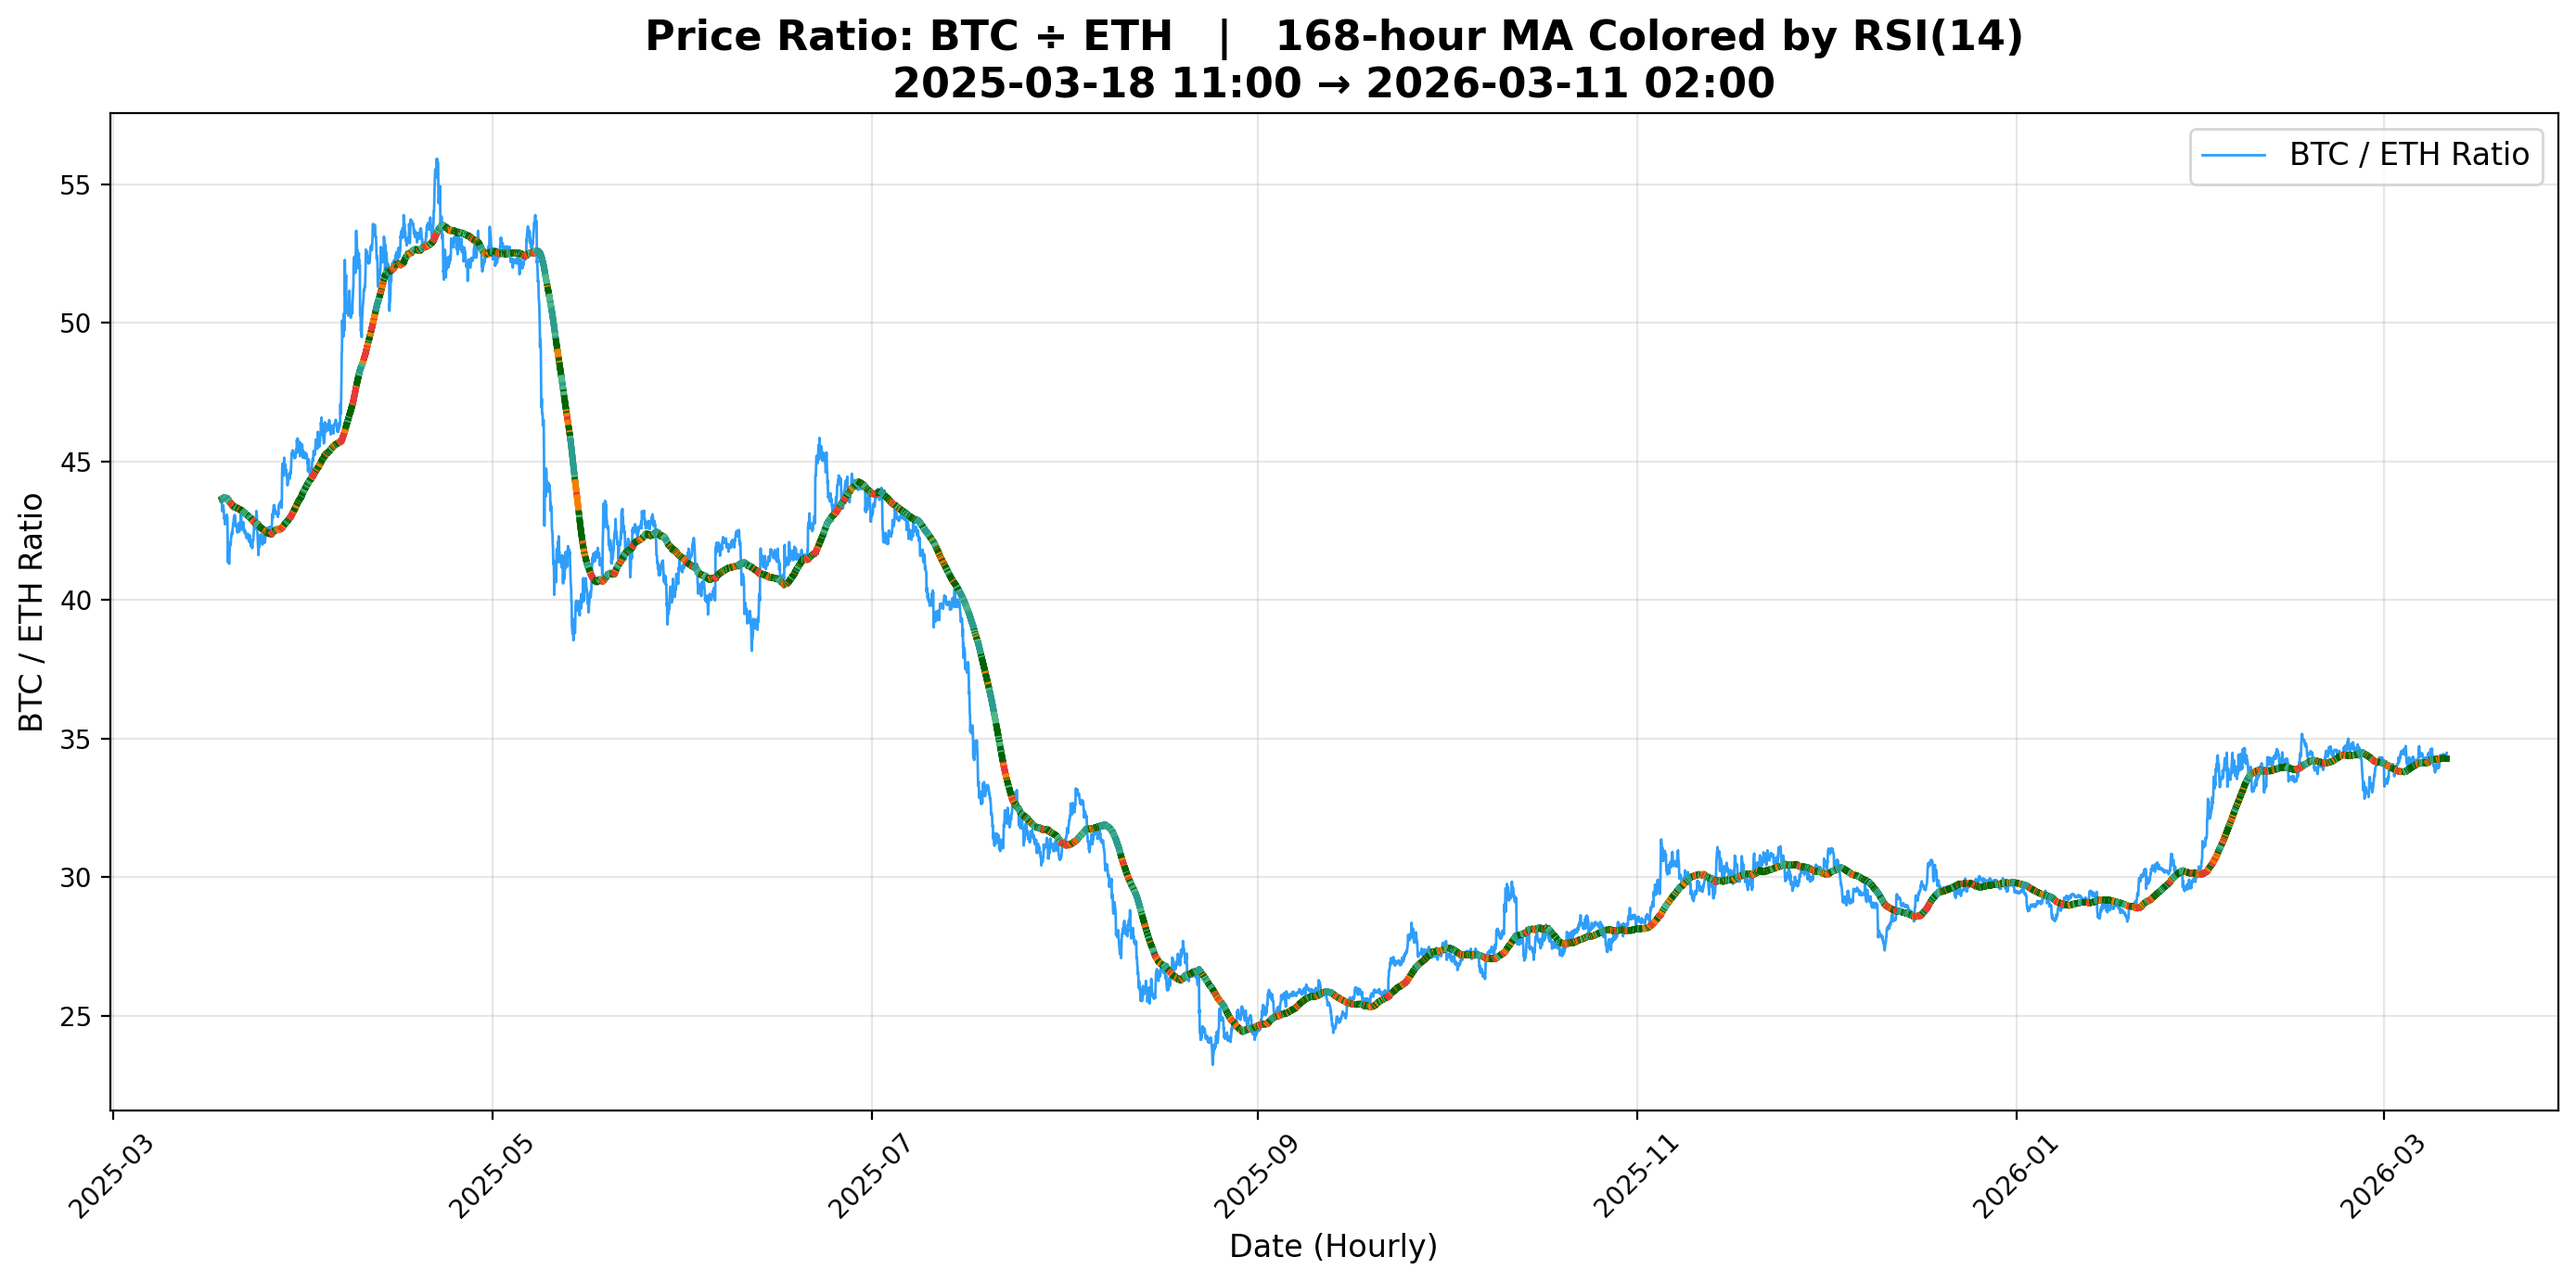
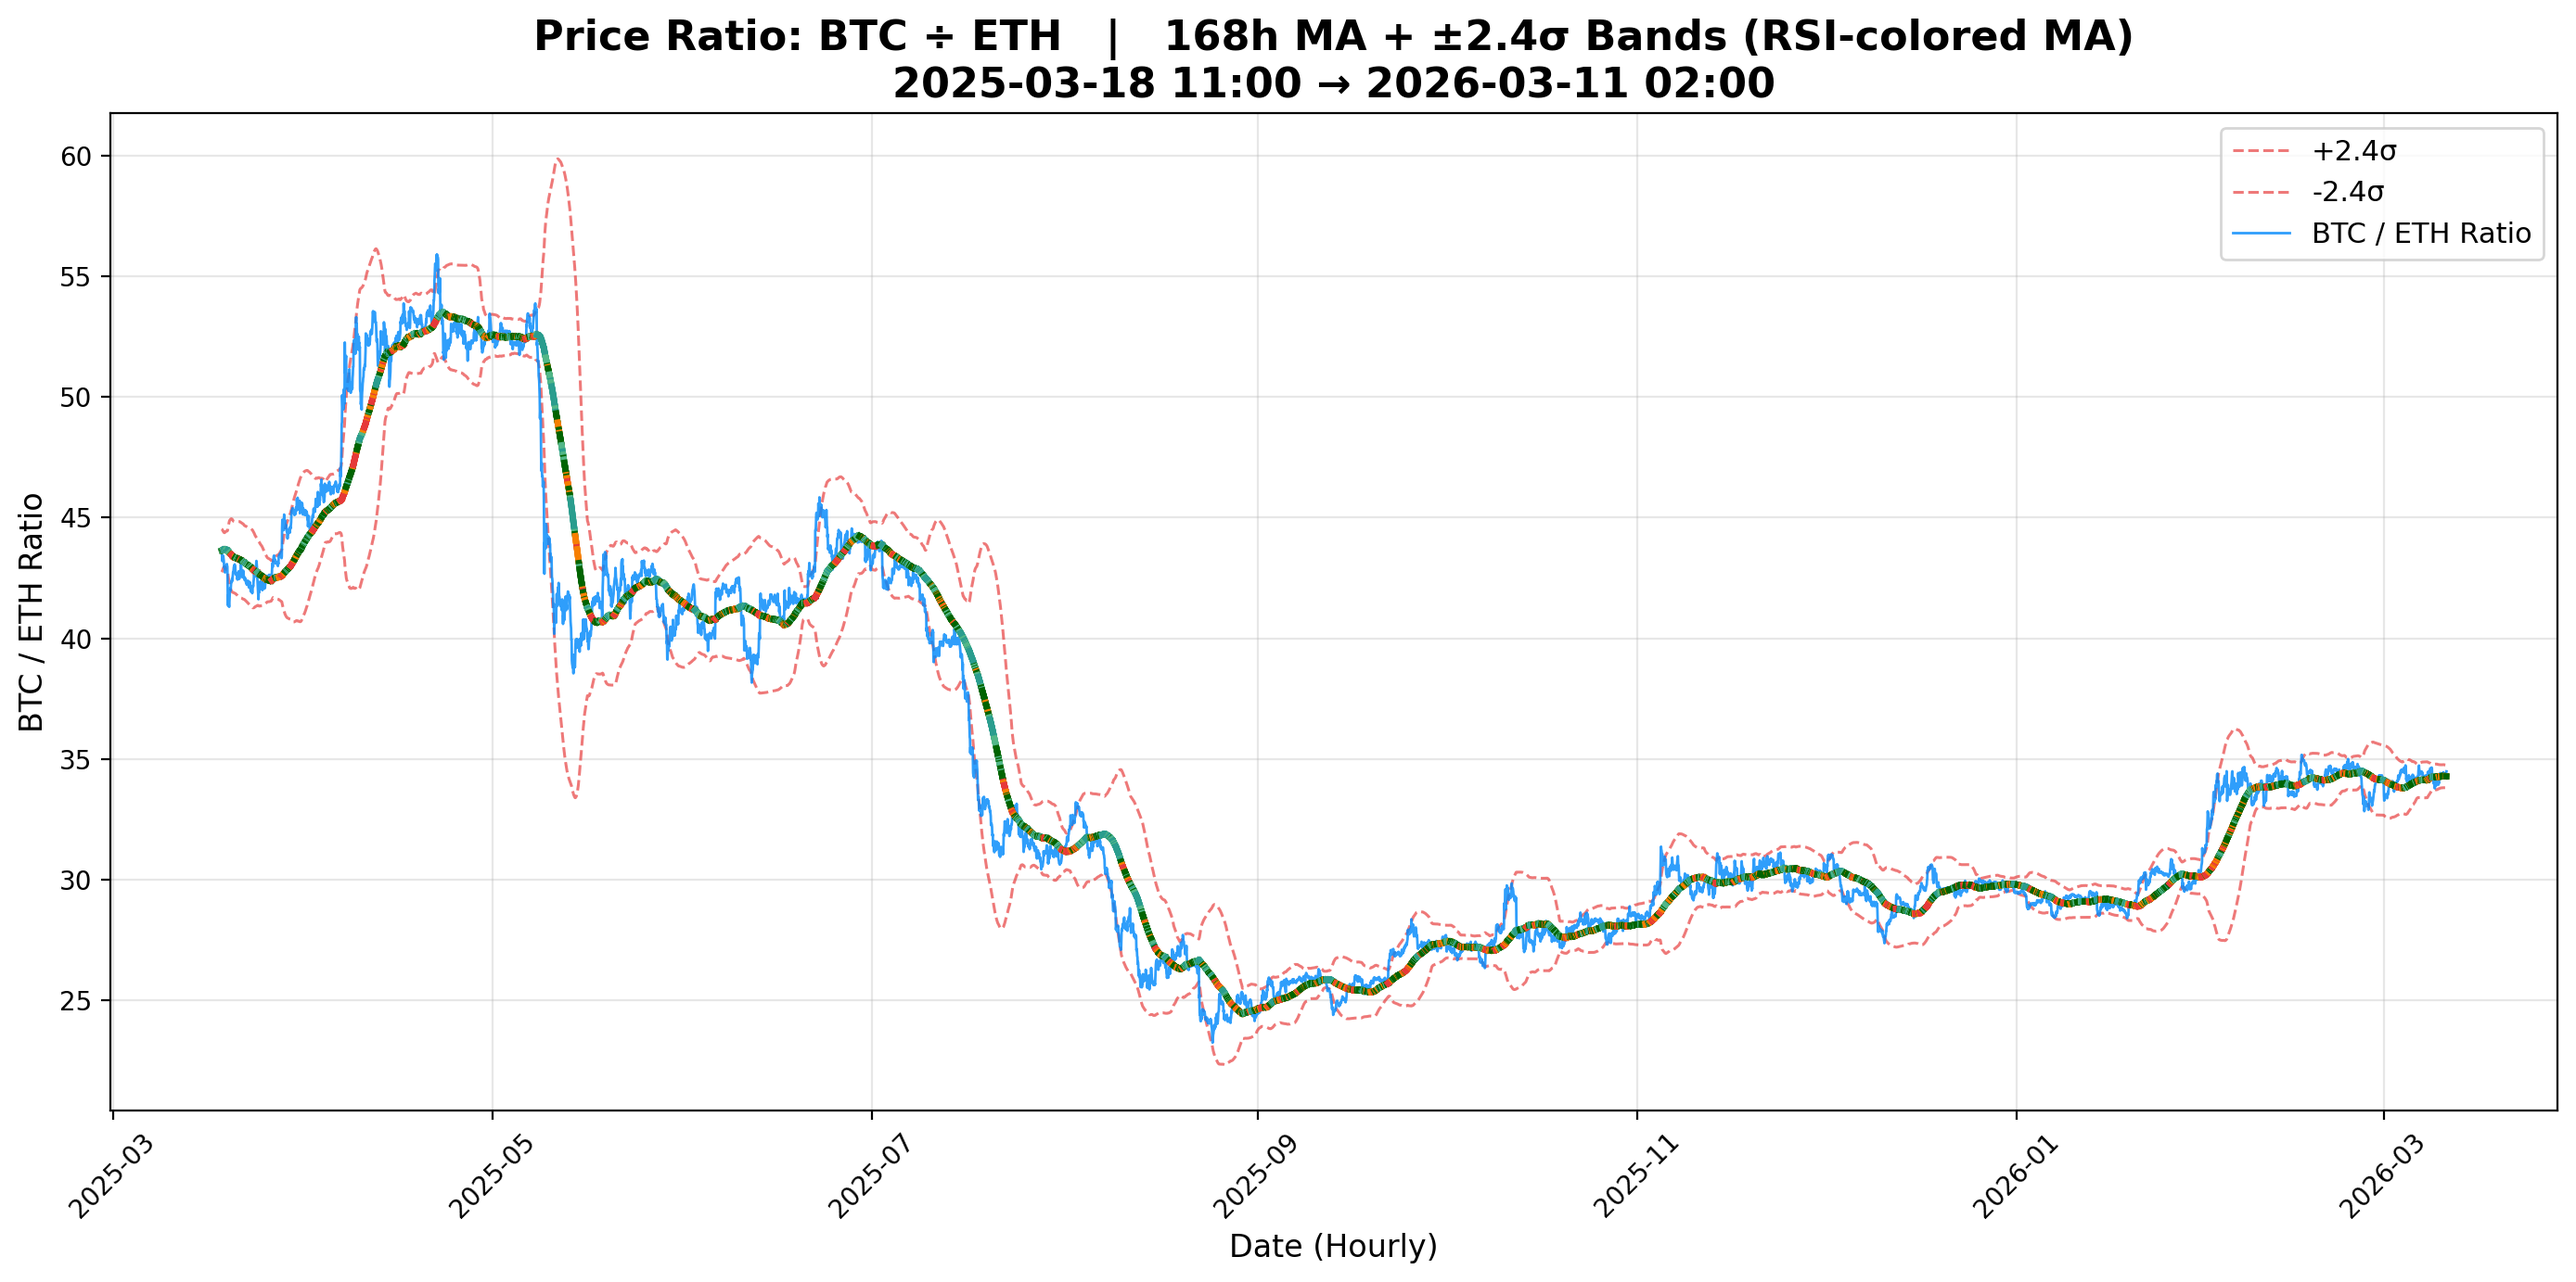
sd lines

diff --git a/src/pcv2/get_price_ratio.py b/src/pcv2/get_price_ratio.py
@@ -1,7 +1,6 @@
 import sys
 import pandas as pd
-import matplotlib.pyplot as plt   # ← Agg removed so chart shows + pauses
-
+import matplotlib.pyplot as plt
 
 class PriceRatioChart:
     """Clean, reusable class to generate price ratio charts from your CSV."""
@@ -11,8 +10,9 @@ class PriceRatioChart:
     # ==================== TUNABLE SETTINGS (change these only) ====================
     MA_PERIOD = 168                     # hours (168 = 7 days)
     RSI_PERIOD = 14
-    RATIO_LINE_WIDTH = 1                # ← thinner raw ratio line
-    MA_LINE_WIDTH = 2.4                 # ← thinner colored MA line
+    BAND_MULTIPLIER = 2.4               # σ multiplier for red bands (2.0 = classic)
+    RATIO_LINE_WIDTH = 1
+    MA_LINE_WIDTH = 2.4
     # =============================================================================
 
     def __init__(self):
@@ -40,7 +40,7 @@ class PriceRatioChart:
         return rsi
 
     def run(self):
-        """Main execution flow — thinner lines + show + pause."""
+        """Main execution flow — now with clean red Bollinger Bands."""
         symbol1, symbol2 = self.parse_arguments()
 
         print(f"Loading {self.CSV_FILE}... (this may take a few seconds)")
@@ -57,11 +57,8 @@ class PriceRatioChart:
         df1 = df[df['symbol'] == symbol1].copy()
         df2 = df[df['symbol'] == symbol2].copy()
 
-        if df1.empty:
-            print(f"❌ Symbol '{symbol1}' not found in the CSV.")
-            sys.exit(1)
-        if df2.empty:
-            print(f"❌ Symbol '{symbol2}' not found in the CSV.")
+        if df1.empty or df2.empty:
+            print(f"❌ One or both symbols not found in the CSV.")
             sys.exit(1)
 
         print(f"Found data for {symbol1} and {symbol2}")
@@ -81,15 +78,18 @@ class PriceRatioChart:
 
         merged['ratio'] = merged[f'close_{symbol1}'] / merged[f'close_{symbol2}']
 
-        # ====================== CALCULATE MA + RSI ======================
-        print(f"Calculating {self.MA_PERIOD}-hour MA + RSI({self.RSI_PERIOD})...")
+        # ====================== CALCULATE MA + RSI + BANDS ======================
+        print(f"Calculating {self.MA_PERIOD}-hour MA + RSI({self.RSI_PERIOD}) + ±{self.BAND_MULTIPLIER}σ Bands...")
         merged['rsi'] = self.calculate_rsi(merged['ratio'])
         merged['ma'] = merged['ratio'].rolling(window=self.MA_PERIOD).mean()
+        merged['std'] = merged['ratio'].rolling(window=self.MA_PERIOD).std()
+        merged['upper_band'] = merged['ma'] + self.BAND_MULTIPLIER * merged['std']
+        merged['lower_band'] = merged['ma'] - self.BAND_MULTIPLIER * merged['std']
 
         # Drop early NaNs from rolling calculations
-        merged = merged.dropna(subset=['rsi', 'ma']).reset_index(drop=True)
+        merged = merged.dropna(subset=['rsi', 'ma', 'std']).reset_index(drop=True)
 
-        print(f"Plotting {len(merged):,} points with RSI coloring on the MA...")
+        print(f"Plotting {len(merged):,} points with RSI coloring + red bands...")
 
         # ====================== CREATE CHART ======================
         fig, ax = plt.subplots(figsize=(14, 7))
@@ -99,12 +99,18 @@ class PriceRatioChart:
         ma = merged['ma']
         rsi = merged['rsi']
 
-        # 1. Thinner neutral raw ratio line (background)
+        # 1. Red Bollinger Bands (plotted first so they sit in background)
+        ax.plot(x, merged['upper_band'], color='#e63939', linewidth=1.1,
+                linestyle='--', alpha=0.68, label=f'+{self.BAND_MULTIPLIER}σ')
+        ax.plot(x, merged['lower_band'], color='#e63939', linewidth=1.1,
+                linestyle='--', alpha=0.68, label=f'-{self.BAND_MULTIPLIER}σ')
+
+        # 2. Thinner neutral raw ratio line (background)
         ax.plot(x, y,
                 label=f'{symbol1} / {symbol2} Ratio',
                 color='#0189FB', linewidth=self.RATIO_LINE_WIDTH, alpha=0.82)
 
-        # 2. Thinner RSI-colored MA line (the star)
+        # 3. Thinner RSI-colored MA line (the star — on top)
         for i in range(1, len(merged)):
             if rsi.iloc[i] > 70:
                 color = '#e63939'      # deep red — heavily overbought
@@ -119,7 +125,8 @@ class PriceRatioChart:
 
             ax.plot(x.iloc[i-1:i+1], ma.iloc[i-1:i+1], color=color, linewidth=self.MA_LINE_WIDTH)
 
-        ax.set_title(f'Price Ratio: {symbol1} ÷ {symbol2}   |   {self.MA_PERIOD}-hour MA Colored by RSI({self.RSI_PERIOD})\n'
+        ax.set_title(f'Price Ratio: {symbol1} ÷ {symbol2}   |   '
+                     f'{self.MA_PERIOD}h MA + ±{self.BAND_MULTIPLIER}σ Bands (RSI-colored MA)\n'
                      f'{merged["datetime"].min().strftime("%Y-%m-%d %H:%M")} → '
                      f'{merged["datetime"].max().strftime("%Y-%m-%d %H:%M")}',
                      fontsize=16, fontweight='bold')
@@ -127,7 +134,7 @@ class PriceRatioChart:
         ax.set_xlabel('Date (Hourly)', fontsize=12)
         ax.set_ylabel(f'{symbol1} / {symbol2} Ratio', fontsize=12)
         ax.grid(True, alpha=0.3)
-        ax.legend(fontsize=12)
+        ax.legend(fontsize=11)
 
         plt.xticks(rotation=45)
         plt.tight_layout()
@@ -140,6 +147,7 @@ class PriceRatioChart:
         print(f"   File: {save_name}")
         print(f"   Data points: {len(merged):,} hourly candles")
         print(f"   MA period: {self.MA_PERIOD} hours")
+        print(f"   Bands: ±{self.BAND_MULTIPLIER} standard deviations (red dashed)")
         print(f"   Line widths: ratio={self.RATIO_LINE_WIDTH}, MA={self.MA_LINE_WIDTH} (change at top)")
         print("\n📊 Opening chart window now... CLOSE the window to exit the program.")
 
